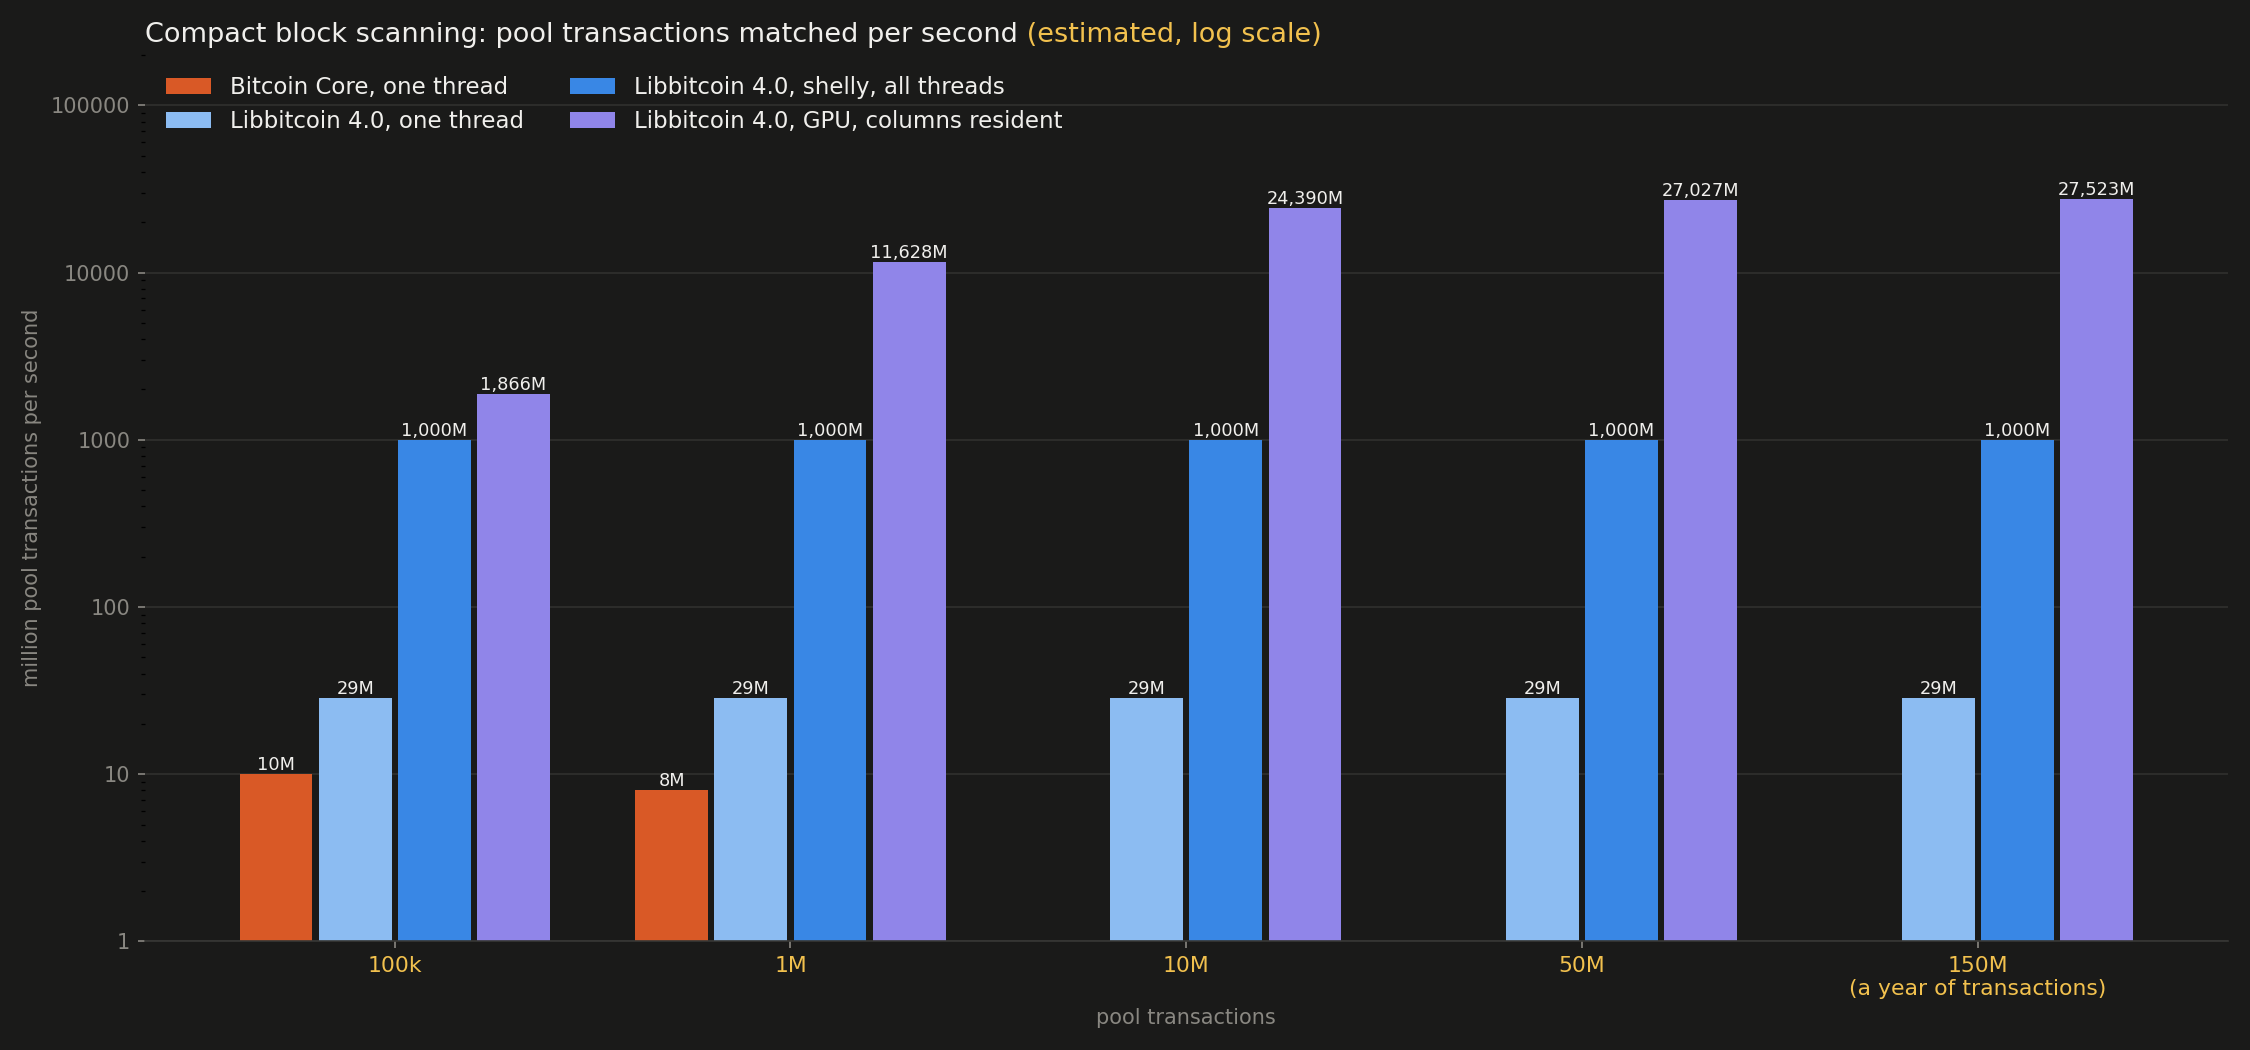
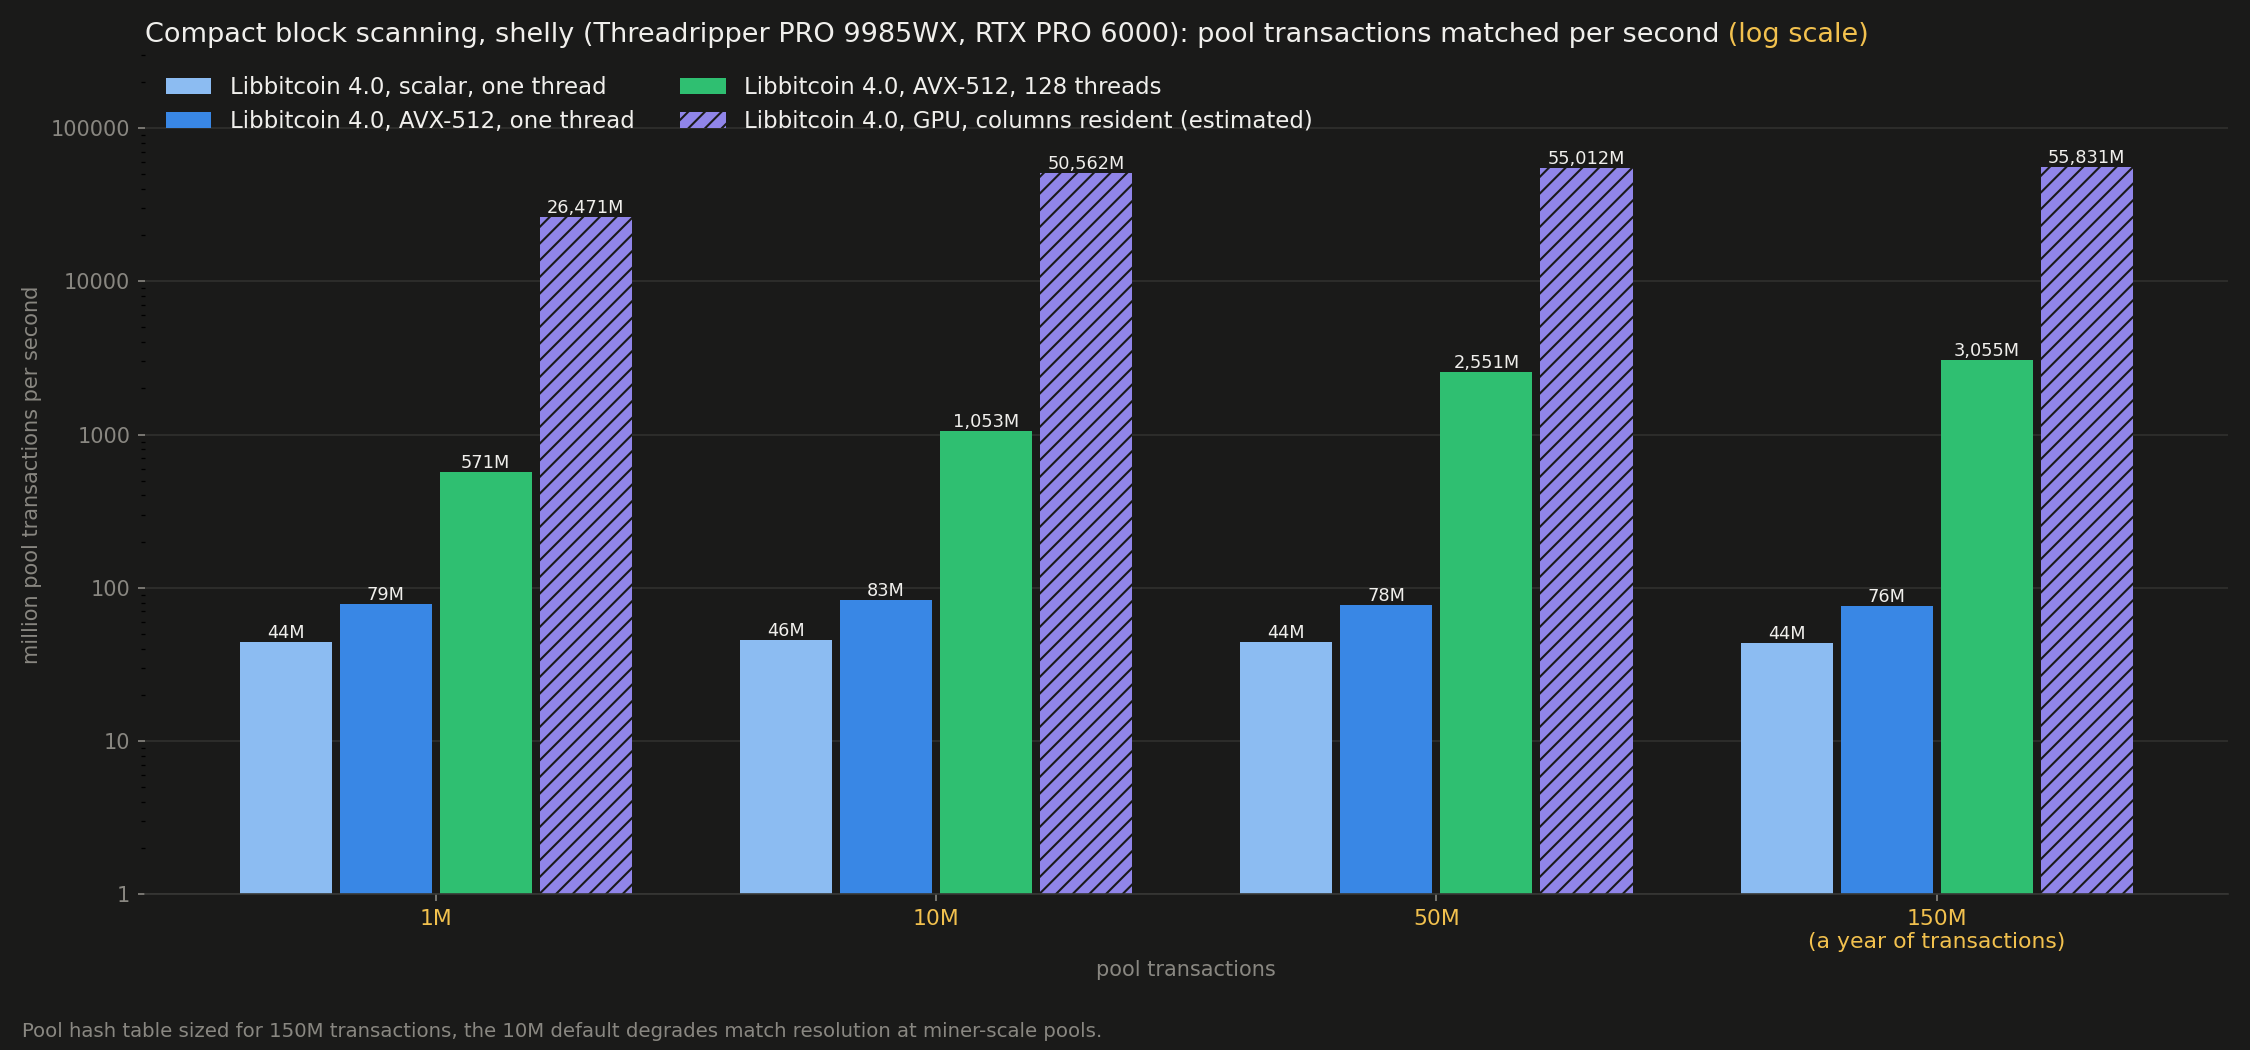
Update compact block scanning plot.

diff --git a/performance.html b/performance.html
@@ -359,8 +359,12 @@
         <img src="performance/scan-silent.png" alt="Silent payment scanning: CPU vs. GPU (log scale)" loading="lazy">
       </figure>
       <figure class="shot" data-full="performance/scan-compact.png" tabindex="0">
-        <h3>Compact block scanning: comparative (estimated)</h3>
-        <img src="performance/scan-compact.png" alt="Compact block scanning: comparative (estimated)" loading="lazy">
+        <h3>Compact block scanning: CPU vs. GPU (log scale)</h3>
+        <img src="performance/scan-compact.png" alt="Compact block scanning: CPU vs. GPU (log scale)" loading="lazy">
+      </figure>
+      <figure class="shot" data-full="performance/scan-compact-core.png" tabindex="0">
+        <h3>Compact block scanning: comparative (linear scale)</h3>
+        <img src="performance/scan-compact-core.png" alt="Compact block scanning: comparative (linear scale)" loading="lazy">
       </figure>
     </div>
 
